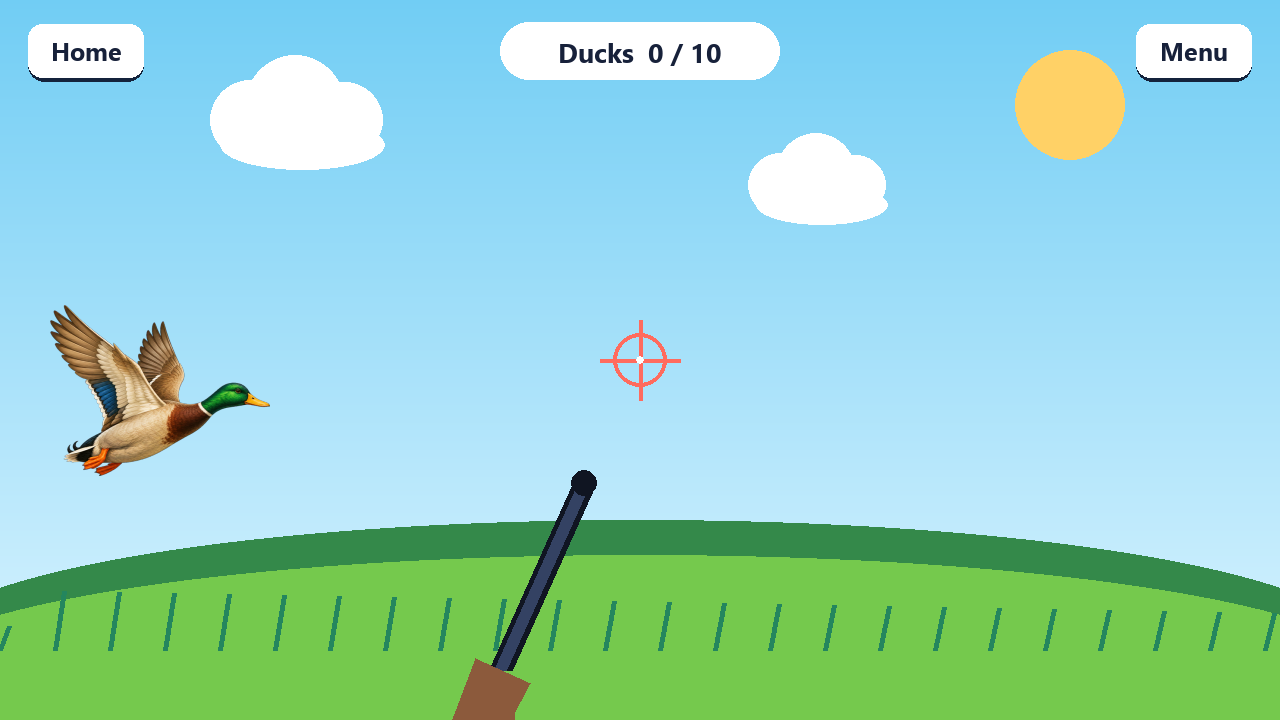
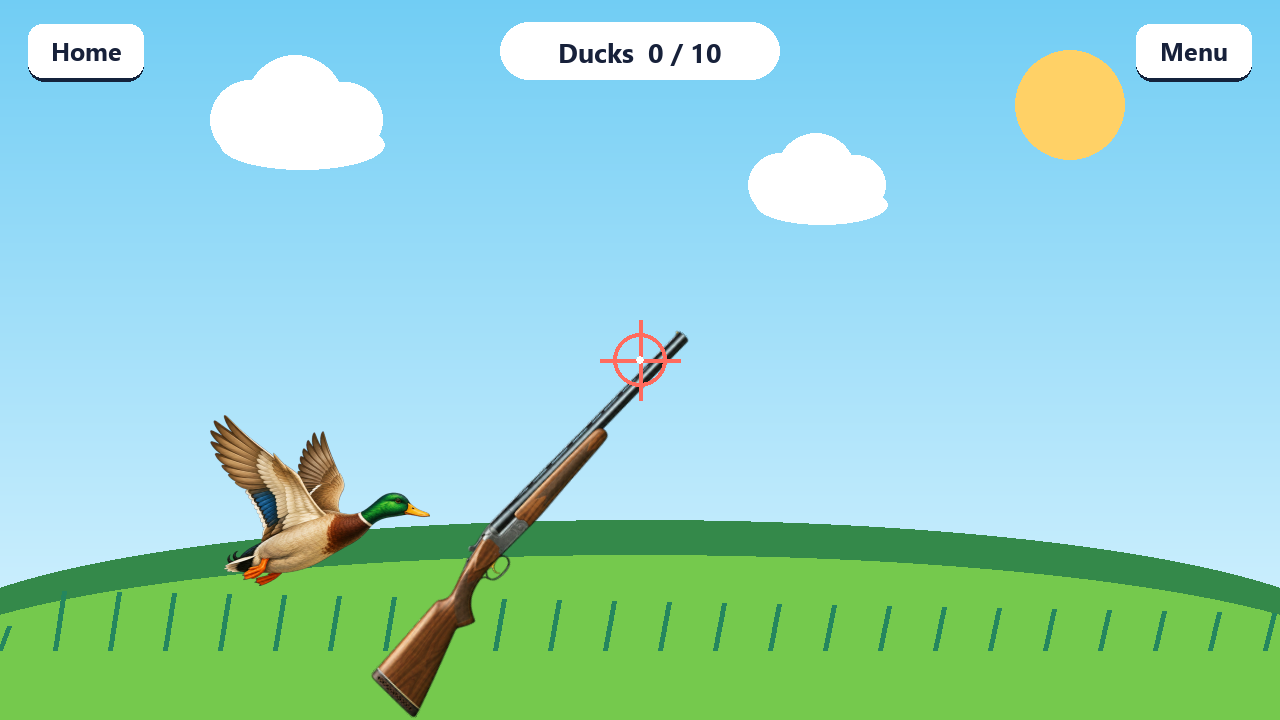
Upgrade Duck Hunt shotgun artwork

Changed region(s): [[0.0312, 0.4278, 0.3438, 0.825], [0.2812, 0.5194, 0.5, 1.0], [0.5, 0.4583, 0.5625, 0.5194]]

diff --git a/src/games_for_grandpa/games/duck_hunt_scene.py b/src/games_for_grandpa/games/duck_hunt_scene.py
@@ -1,5 +1,6 @@
 from __future__ import annotations
 
+import math
 from importlib.resources import files
 
 import pygame
@@ -24,6 +25,9 @@ class DuckHuntScene(Scene):
         duck_path = files("games_for_grandpa.assets").joinpath("duck.png")
         source = pygame.image.load(str(duck_path)).convert_alpha()
         self.duck_sprite = pygame.transform.smoothscale(source, (220, 171))
+        rifle_path = files("games_for_grandpa.assets").joinpath("rifle.png")
+        rifle_source = pygame.image.load(str(rifle_path)).convert_alpha()
+        self.rifle_sprite = pygame.transform.smoothscale(rifle_source, (470, 61))
         self.hud = GameHud(
             controller,
             self.GAME_ID,
@@ -116,34 +120,20 @@ class DuckHuntScene(Scene):
         surface.blit(sprite, rect)
 
     def _draw_rifle(self, surface: pygame.Surface) -> None:
-        origin = pygame.Vector2(500, 670)
+        stock_anchor = pygame.Vector2(390, 700)
         target = pygame.Vector2(self.crosshair)
-        direction = target - origin
+        # DSA: Constant-time vector geometry maps the cursor to one sprite rotation.
+        direction = target - stock_anchor
         if direction.length_squared() == 0:
             direction = pygame.Vector2(0, -1)
         direction = direction.normalize()
-        barrel_end = origin + direction * 205
-        side = pygame.Vector2(-direction.y, direction.x)
-        pygame.draw.line(surface, theme.BLACK, origin, barrel_end, 24)
-        pygame.draw.line(surface, theme.INK_SOFT, origin, barrel_end, 13)
-        stock = [
-            origin + side * 34,
-            origin - side * 27,
-            origin - side * 20 - direction * 115,
-            origin + side * 27 - direction * 105,
-        ]
-        pygame.draw.polygon(surface, theme.BROWN, stock)
-        pygame.draw.polygon(
-            surface,
-            theme.BROWN,
-            [
-                origin - direction * 18,
-                origin - direction * 68,
-                origin - direction * 58 + side * 42,
-                origin - direction * 8 + side * 20,
-            ],
+        angle = -math.degrees(math.atan2(direction.y, direction.x))
+        rotated = pygame.transform.rotozoom(self.rifle_sprite, angle, 1.0)
+        center = stock_anchor + direction * (self.rifle_sprite.get_width() / 2)
+        surface.blit(
+            rotated,
+            rotated.get_rect(center=(round(center.x), round(center.y))),
         )
-        pygame.draw.circle(surface, theme.BLACK, barrel_end, 13)
 
     def _draw_crosshair(self, surface: pygame.Surface) -> None:
         x, y = self.crosshair